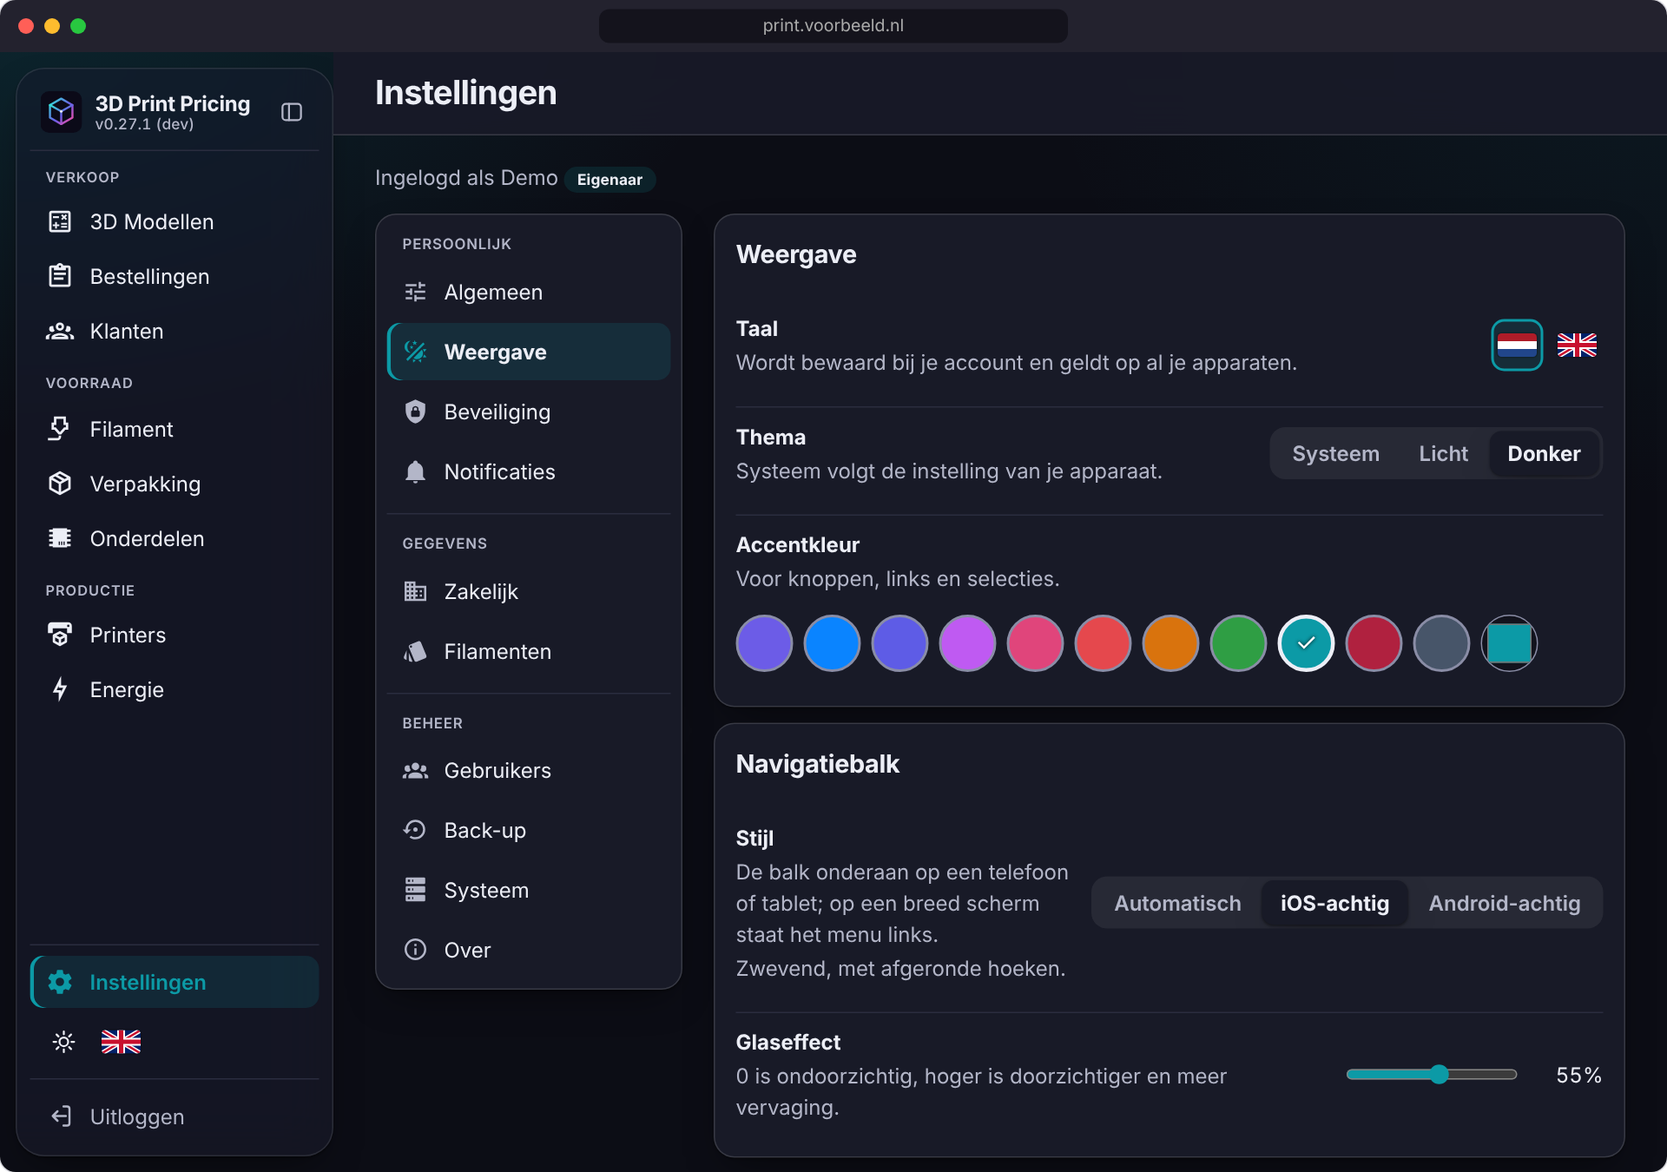
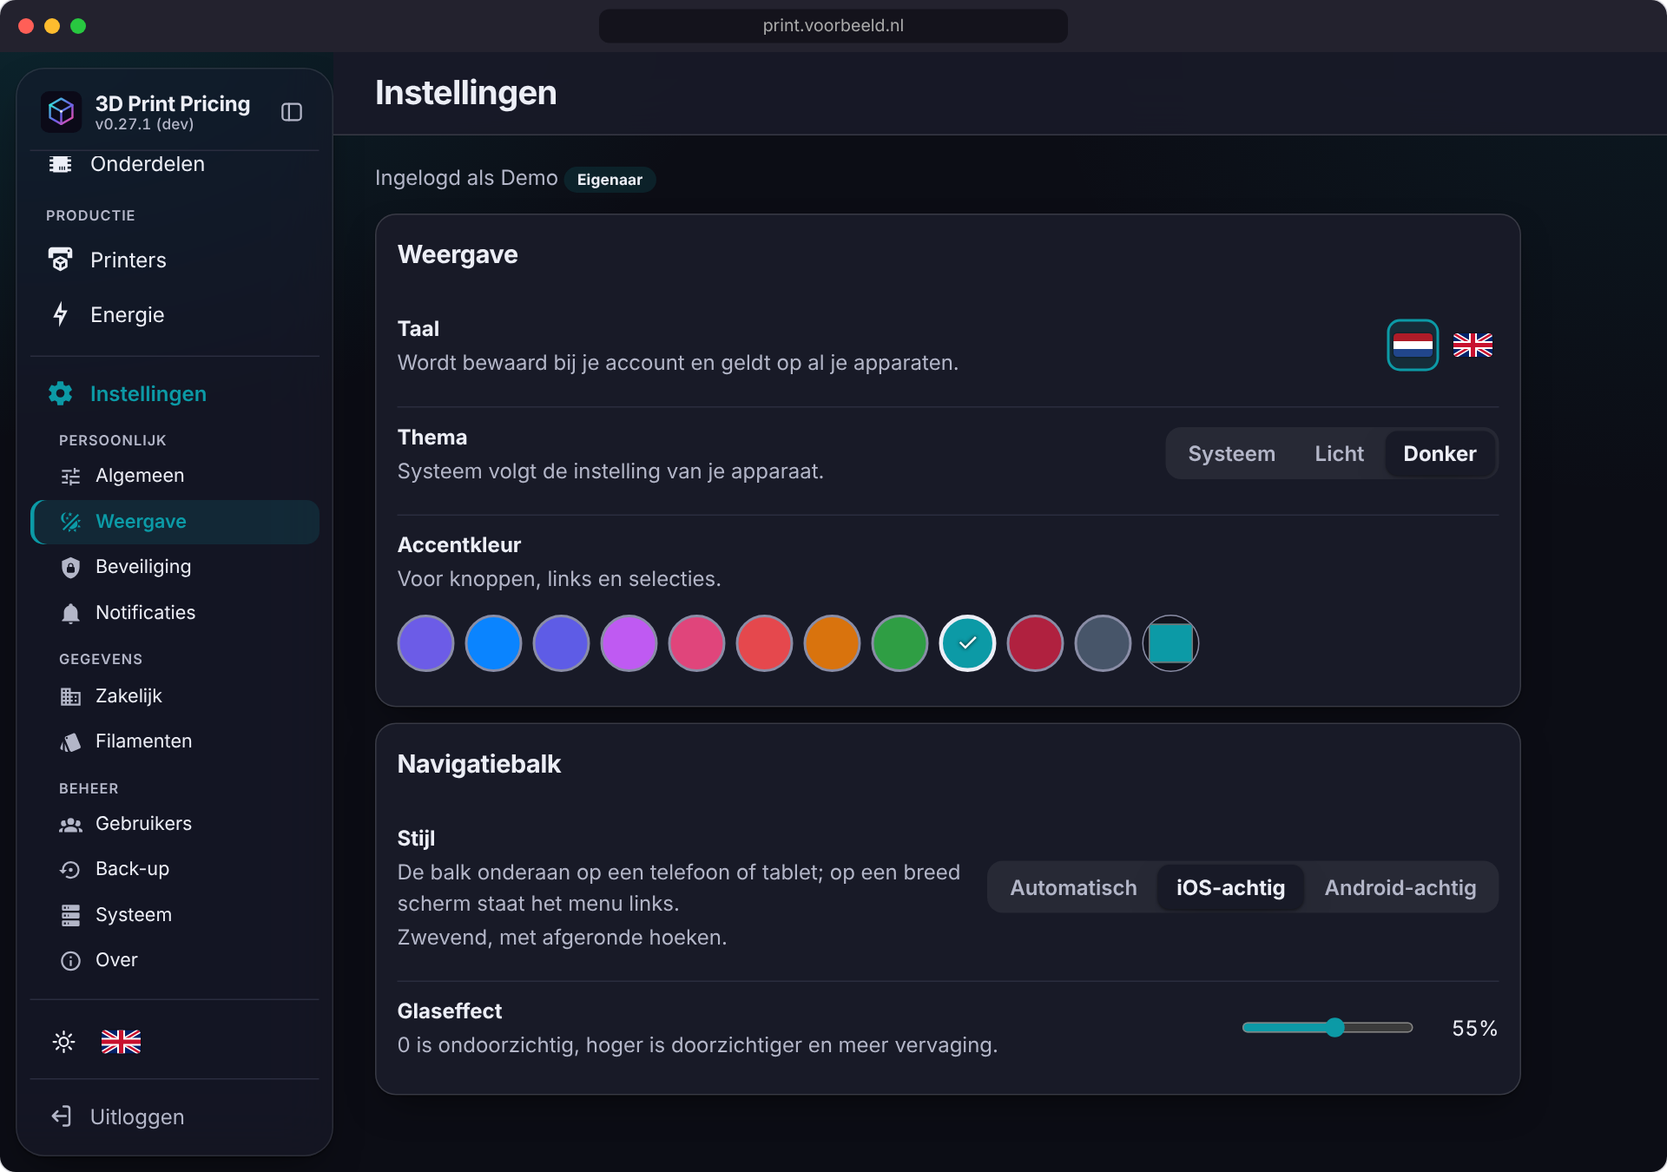
feat(menu): the parts of the settings stand under Settings in the menu
Settings had a menu of its own beside the page. Its parts now stand in
the menu on the left, under Settings, grouped as before (personal, data,
administration): they open on the settings pages, so there is one menu.
On those pages the menu starts at Settings, so all parts are in sight.

Where that menu is not there (a phone) or is folded away, the page still
shows the parts itself. Both draw the same list, `settingsMenu()`, and
switching Business on or off updates both.

The guide and AGENTS.md describe this and the picture of a packaging
item; the styles of that picture and the retaken screenshots are in this
commit too.

Claude-Session: https://claude.ai/code/session_01KSdu54AFun4xRkPWcygQm9

diff --git a/frontend/js/main.js b/frontend/js/main.js
@@ -4,7 +4,7 @@ import { customerEditorView, customerListView } from './customers.js';
 import { orderEditorView, orderListView } from './orders.js';
 import { projectEditorView, projectListView } from './projects.js';
 import { resourceView } from './resources.js';
-import { ACCENTS, settingsView } from './settings.js';
+import { ACCENTS, settingsMenu, settingsSection, settingsView } from './settings.js';
 import { initRelease, redrawRelease, releaseAvailable, stopRelease } from './release.js';
 import { initUpdates, setDirty } from './updates.js';
 import { maybeShowInstallBanner } from './install.js';
@@ -44,6 +44,7 @@ let prefs = {};
 let flags = { recovered: false };
 let appVersion = null;
 let updatesStarted = false;
+let redrawMenu = () => {};                 // draws the parts of the settings in the menu again (a part appeared or went: Business switched on or off)
 
 // --- theme & preferences ------------------------------------------------------
 
@@ -120,7 +121,8 @@ function pageContent({ page, id }) {
           h('h3', {}, navIcon(ic, false), t(label))))),
         h('div', { class: 'row' }, h('button', { class: 'btn', type: 'button', onclick: logout }, icon('logout'), h('span', {}, t('session.logout')))));
     case 'instellingen':
-      return settingsView({ get prefs() { return prefs; }, setPrefs, setLanguage: chooseLanguage, user: session.user, highlightPasskey: flags.recovered, get aiImages() { return session.aiImages; } }, id);
+      return settingsView({ get prefs() { return prefs; }, setPrefs, setLanguage: chooseLanguage, user: session.user, highlightPasskey: flags.recovered, get aiImages() { return session.aiImages; },
+        redrawMenu: () => redrawMenu() }, id);
     default: return h('p', {}, t('nav.not_found'));
   }
 }
@@ -130,11 +132,11 @@ async function logout() {
   start();
 }
 
-function navLink([page, labelKey, ic], active) {
+function navLink([page, labelKey, ic], active, current) {
   const label = t(labelKey);
   // A dot on the entries that lead to Settings while a newer release exists (release.js shows and hides it).
   const dot = page === 'instellingen' || page === 'meer' ? h('span', { class: 'nav-dot', 'aria-hidden': 'true', hidden: !releaseAvailable() }) : null;
-  return h('a', { href: `#/${page}`, 'aria-current': active ? 'page' : null, title: label },
+  return h('a', { href: `#/${page}`, 'aria-current': active ? (current || 'page') : null, title: label },
     h('span', { class: 'nav-icon' }, navIcon(ic, active), dot), h('span', { class: 'nav-label' }, label));
 }
 
@@ -150,8 +152,20 @@ function route() {
   setDirty(false);                       // a new screen starts clean; the editor raises it again on edits
   const r = currentRoute();
   const main = h('main', { id: 'main', tabindex: '-1' }, pageContent(r));
-  const entry = (page) => { const n = NAV.find((x) => x[0] === page); return navLink(n, n[0] === r.page); };
+  const entry = (page, current) => { const n = NAV.find((x) => x[0] === page); return navLink(n, n[0] === r.page, current); };
   const collapsed = !!prefs.sidebar_collapsed;
+  // Settings is one menu with the rest: on its pages its parts stand under it, grouped as they are on the page itself.
+  const inSettings = r.page === 'instellingen';
+  const who = { get prefs() { return prefs; }, user: session.user, get aiImages() { return session.aiImages; } };
+  const settingsParts = h('div', { class: 'nav-sub', hidden: !inSettings });
+  redrawMenu = () => {
+    const open = settingsSection(who, r.id);
+    settingsParts.replaceChildren(...settingsMenu(who).map(([title, items]) => h('div', { class: 'nav-sub-group', role: 'group', 'aria-label': t(title) },
+      h('span', { class: 'nav-group-title', 'aria-hidden': 'true' }, t(title)),
+      items.map(([key, label, name]) => h('a', { href: `#/instellingen/${key}`, 'aria-current': key === open ? 'page' : null, title: t(label) },
+        h('span', { class: 'nav-icon' }, icon(name)), h('span', { class: 'nav-label' }, t(label)))))));
+  };
+  if (inSettings) redrawMenu();
   const sidebar = h('nav', { class: 'sidebar glass', 'aria-label': t('nav.main') },
     h('div', { class: 'sidebar-brand' }, h('img', { src: '/icons/icon.svg', alt: '', width: 32, height: 32 }),
       h('span', { class: 'nav-label brand-text' }, h('span', { class: 'brand-name' }, '3D Print Pricing', betaBadge()),
@@ -160,9 +174,10 @@ function route() {
       h('button', { class: 'tool-btn sidebar-toggle', type: 'button', 'aria-expanded': String(!collapsed), title: collapsed ? t('nav.expand') : t('nav.collapse'),
         'aria-label': collapsed ? t('nav.expand') : t('nav.collapse'), onclick: () => { setPrefs({ sidebar_collapsed: !prefs.sidebar_collapsed }).then(route); } }, icon('sidebar'))),
     h('div', { class: 'sidebar-nav' }, NAV_GROUPS.map(([label, pages]) => h('div', { class: 'nav-group', role: 'group', 'aria-label': t(label) },
-      h('span', { class: 'nav-group-title', 'aria-hidden': 'true' }, t(label)), pages.map(entry)))),
+      h('span', { class: 'nav-group-title', 'aria-hidden': 'true' }, t(label)), pages.map((page) => entry(page)))),
+      // While its parts are listed, Settings itself is only where you are in the menu, not the page: the part is. Folded away, it is the page again.
+      h('div', { class: 'nav-group nav-settings' }, entry('instellingen', inSettings && !collapsed ? 'true' : undefined), settingsParts)),
     h('div', { class: 'sidebar-foot' },
-      entry('instellingen'),
       h('div', { class: 'sidebar-tools' }, themeToggle({ get prefs() { return prefs; }, setPrefs }, route), langSwitch(chooseLanguage)),
       h('button', { class: 'logout', type: 'button', title: t('session.logout'), onclick: logout }, icon('logout'), h('span', { class: 'nav-label' }, t('session.logout')))));
   // One primary navigator at a time: CSS shows the tab bar on compact widths, the sidebar otherwise.
@@ -171,6 +186,8 @@ function route() {
     ...COMPACT.map((n) => navLink(n, n[0] === r.page)), navLink(['meer', 'nav.more', 'dots-horizontal'], inOverflow));
   root.replaceChildren(h('div', { class: 'app' }, sidebar, main, tabbar));
   window.scrollTo(0, 0);
+  // The menu is long with the parts of the settings open: on those pages it starts at Settings, so all its parts are in sight without scrolling.
+  if (inSettings && !collapsed) { const list = sidebar.querySelector('.sidebar-nav'); list.scrollTop = settingsParts.parentElement.offsetTop - list.offsetTop; }
 }
 
 // --- boot ----------------------------------------------------------------------

diff --git a/frontend/js/settings.js b/frontend/js/settings.js
@@ -876,18 +876,30 @@ const SECTIONS = [['algemeen', 'settings.tab_general'], ['weergave', 'settings.t
   ['zakelijk', 'settings.tab_business'], ['filamenten', 'settings.tab_filaments'], ['notificaties', 'settings.tab_notifications'],
   ['gebruikers', 'settings.tab_users'], ['ai', 'settings.tab_ai'], ['backup', 'settings.tab_backup'], ['systeem', 'settings.tab_system'], ['over', 'settings.tab_about']];
 const ADMIN_SECTIONS = ['zakelijk', 'gebruikers', 'ai', 'backup', 'systeem', 'over'];
-// How the menu is grouped and which icon each part has. A part is only shown when `shown()` lets it through, a group without parts not at all.
+// How the menu is grouped and which icon each part has. A part is only shown when `settingsMenu()` lets it through, a group without parts not at all.
 const GROUPS = [['settings.group_personal', ['algemeen', 'weergave', 'beveiliging', 'notificaties']],
   ['settings.group_data', ['zakelijk', 'filamenten']], ['settings.group_admin', ['gebruikers', 'ai', 'backup', 'systeem', 'over']]];
 const SECTION_ICONS = { algemeen: 'tune', weergave: 'theme-light-dark', beveiliging: 'shield-lock', notificaties: 'bell', zakelijk: 'domain',
   filamenten: 'palette-swatch', gebruikers: 'account-group', ai: 'creation', backup: 'backup-restore', systeem: 'server', over: 'information-outline' };
 
+/** The parts of the settings this person sees, grouped as the menu shows them: [[group label key, [[route, label key, icon], ...]], ...]. There is one
+    list, for the menu on the left (where the parts stand under Settings) and for the menu of the page itself (a phone, or the menu folded away). */
+export function settingsMenu({ prefs, user, aiImages }) {
+  const admin = user.role === 'admin';
+  const labels = new Map(SECTIONS.filter(([key]) => (admin || !ADMIN_SECTIONS.includes(key)) && (key !== 'zakelijk' || !!prefs.business_mode)
+    && (key !== 'ai' || aiImages)));                                 // "AI-afbeeldingen" only when .env switches it on
+  return GROUPS.map(([title, keys]) => [title, keys.filter((key) => labels.has(key)).map((key) => [key, labels.get(key), SECTION_ICONS[key]])])
+    .filter(([, items]) => items.length);
+}
+
+/** The part of the settings an address opens: the one it names when this person has it, else the first. */
+export const settingsSection = (ctx, requested) => (settingsMenu(ctx).some(([, items]) => items.some(([key]) => key === requested)) ? requested : 'algemeen');
+
 export function settingsView(ctx, requested) {
   const { setPrefs, user, highlightPasskey } = ctx;
   const businessOn = () => !!ctx.prefs.business_mode;
   const admin = user.role === 'admin';
-  const shown = () => SECTIONS.filter(([key]) => (admin || !ADMIN_SECTIONS.includes(key)) && (key !== 'zakelijk' || businessOn()) && (key !== 'ai' || ctx.aiImages));   // "AI-afbeeldingen" only when .env switches it on
-  const section = shown().some(([key]) => key === requested) ? requested : 'algemeen';
+  const section = settingsSection(ctx, requested);
   // The address says what is shown: a part that is not there (Business while it is off) must not stay in the URL, or clicking its tab later would change nothing.
   if (requested && requested !== section) history.replaceState(null, '', `#/instellingen/${section}`);
   let vatTimer = null;
@@ -991,17 +1003,15 @@ export function settingsView(ctx, requested) {
     } catch (e) { toast(e.message, 'error'); }
   }
 
-  // A column of grouped parts beside the page on a wide screen, a row you can swipe on a phone (the css decides, the markup is the same).
+  // The parts of the settings stand under Settings in the menu on the left. Where that menu is not there (a phone) or is folded away, the page shows them itself:
+  // a row you can swipe on a phone, a column beside the page next to the folded menu (the css decides, the markup is the same).
   const subnav = h('nav', { class: 'settings-nav', 'aria-label': t('settings.sections') });
   const drawSubnav = () => {
-    const labels = new Map(shown());
-    subnav.replaceChildren(...GROUPS.map(([title, keys]) => {
-      const items = keys.filter((key) => labels.has(key));
-      return items.length ? h('div', { class: 'settings-group', role: 'group', 'aria-label': t(title) },
-        h('p', { class: 'settings-group-title', 'aria-hidden': 'true' }, t(title)),
-        ...items.map((key) => h('a', { href: `#/instellingen/${key}`, 'aria-current': key === section ? 'page' : null },
-          icon(SECTION_ICONS[key]), h('span', {}, t(labels.get(key)))))) : null;
-    }));
+    subnav.replaceChildren(...settingsMenu(ctx).map(([title, items]) => h('div', { class: 'settings-group', role: 'group', 'aria-label': t(title) },
+      h('p', { class: 'settings-group-title', 'aria-hidden': 'true' }, t(title)),
+      ...items.map(([key, label, name]) => h('a', { href: `#/instellingen/${key}`, 'aria-current': key === section ? 'page' : null },
+        icon(name), h('span', {}, t(label)))))));
+    ctx.redrawMenu?.();                                              // the same parts stand under Settings in the menu on the left
   };
   drawSubnav();
   requestAnimationFrame(() => subnav.querySelector('[aria-current]')?.scrollIntoView({ block: 'nearest', inline: 'center' }));   // on a phone the open part may be off screen

diff --git a/frontend/css/app.css b/frontend/css/app.css
@@ -961,3 +961,26 @@ a.cell-title:hover { color: var(--accent); text-decoration: underline; text-unde
 }
 @container (max-width: 519.98px) { .data-table { font-size: .875rem; } .data-table .main { min-width: 8.5rem; } .data-table th, .data-table td { padding: 8px; } }
 @container (max-width: 519.98px) { .th-sort .icon { display: none; } th[aria-sort] .th-sort .icon { display: block; } .data-table thead th { letter-spacing: .02em; } .data-table .main { min-width: 7rem; } }
+
+/* Settings is one menu with the rest: on its pages its parts stand under it in the menu on the left, grouped as on the page. The page shows its own
+   menu only where that one is not there (a phone) or is folded away. */
+@media (min-width: 860px) {
+  .nav-settings { margin-top: auto; padding-top: 8px; border-top: 1px solid var(--lijn); }
+  .sidebar a[aria-current="true"] { background: none; box-shadow: none; color: var(--accent); font-weight: 600; }   /* where you are; the part under it is the page */
+  .nav-sub { display: flex; flex-direction: column; gap: 4px; padding-bottom: 4px; }
+  .nav-sub-group { display: flex; flex-direction: column; gap: 1px; }
+  .nav-sub .nav-group-title { margin: 6px 12px 2px 22px; }
+  .sidebar .nav-sub a { min-height: 34px; padding: 4px 12px 4px 22px; gap: 10px; font-size: .9rem; }
+  .nav-sub .icon { width: 18px; height: 18px; color: var(--text-muted); }
+  .nav-sub a[aria-current="page"] .icon { color: var(--accent); }
+  .sidebar-collapsed .nav-sub { display: none; }
+  html:not(.sidebar-collapsed) .settings-nav { display: none; }
+  html:not(.sidebar-collapsed) .settings-layout { grid-template-columns: minmax(0, 1fr); }
+  .settings-content { max-width: 880px; }
+}
+
+/* The picture of an item (packaging): small in a tile and in the list, larger in its form. */
+.item-thumb { flex: none; width: 44px; height: 44px; border: 1px solid var(--lijn-strong); border-radius: var(--radius-sm); background: var(--surface-solid); object-fit: cover; }
+.item-thumb.placeholder { display: inline-grid; place-items: center; background: var(--track); color: var(--text-muted); }
+.data-table .item-thumb { width: 36px; height: 36px; }
+.image-preview { max-width: min(100%, 200px); max-height: 200px; border: 1px solid var(--lijn-strong); border-radius: var(--radius-sm); object-fit: contain; }

diff --git a/docs/handleiding.md b/docs/handleiding.md
@@ -46,7 +46,7 @@ te houden waar die prijzen op gebaseerd zijn. Inloggen gaat met **passkeys** of,
   **voorraad per soort**: de rollen die je nog hebt met hun gewicht, het totaal per soort en per materiaal (een soort is
   één barcode, of merk + materiaal + kleur). Merk (bijvoorbeeld *Bambu Lab*) en **type** (*Matte*, *Basic*, *Silk*) zijn aparte velden; een bestaande rol houdt wat in het merkveld stond en het type is leeg tot je het invult. Pas je bij een rol met barcode merk, type, materiaal, kleur, gewicht, diameter of temperaturen aan, dan vraagt de app bij het opslaan of de andere rollen met dezelfde barcode ook bijgewerkt moeten worden (alleen wat je veranderde; prijs, wat er nog over is en notities zijn per rol en blijven staan). Bovenaan *Voorraad* en *Rollen* staat een **zoekveld** dat filtert terwijl je typt: op naam (merk, type, kleur), barcode en materiaal, zonder op hoofdletters of accenten te letten; met meer woorden (*bambu zwart*) moet elk woord passen. Met de scanknop ernaast zoek je op een gescande barcode, en wat je typte blijft staan als je tussen *Voorraad* en *Rollen* wisselt. Daarnaast kun je de lijst en de voorraad filteren op **soort** (materiaal), **merk** en **type**; elke keuzelijst past zich aan de vorige keuzes aan. **Dupliceren** (op een rol onder *Rollen*) opent het rolformulier, ingevuld met die rol, met bovenaan *Aantal rollen*: zo voeg je een of meer rollen van hetzelfde filament toe. De nieuwe rollen beginnen vol en zijn niet gearchiveerd; pas aan wat anders is (de prijs, bijvoorbeeld) en ze komen er in één keer bij (alles of niets, hooguit 200). Een rol uit Spoolman dupliceer je in Spoolman. Verbruik van een berekening kun je met één klik van de voorraad afboeken.
   Het menu *Filament* heeft twee onderdelen: **Voorraad** (de soorten, met een spoel-icoon in de kleur van de rol en bovenaan het totaal per materiaal) en **Rollen** (elke rol afzonderlijk). Beide werken als elk ander overzicht (zie *Overzichten*): tegels of lijst, zoeken, filteren op soort, merk en type, en sorteren. Bij *Rollen* zet de schakelaar *Groepeer per soort* de rollen van één soort bij elkaar (drie rollen Bambu Lab Basic Rood onder één kop, met de barcode erbij, zodat twee tinten rood uit elkaar blijven). Binnen een groep staan de rollen in de gekozen volgorde en de groepen staan op volgorde van hun eerste rol: gesorteerd op *Resterend* staat de soort met de leegste rol bovenaan, met die rol als eerste. Zet je de schakelaar uit, dan is het één lijst op die volgorde, en bij gelijk gewicht op naam. De kleur kies je per rol (*Kleur van de rol*); kies je niets, dan wordt hij uit de naam geraden (*zwart*, *Red*, …). Het icoon is in de stijl van de Material Design-iconen getekend, want die hebben geen filamentspoel.
-- **Verpakking** — je soorten dozen en ander verpakkingsmateriaal met prijs per stuk. Verpakking hoort bij de **bestelling**, niet bij het model: met
+- **Verpakking** — je soorten dozen en ander verpakkingsmateriaal met prijs per stuk, elk met optioneel een **afbeelding** (een foto van de doos of zak, of het logo): kies in het formulier een JPEG, PNG of WebP (op een telefoon kun je meteen een foto maken); hij staat daarna klein in de tegel en in de lijst, en met *Afbeelding weghalen* haal je hem er weer af. De app bewaart een verkleinde kopie (hooguit 800 pixels breed of hoog) zonder de gegevens die een telefoon in een foto zet, in de database; hij zit in de back-up en verdwijnt met de verpakking. Verpakking hoort bij de **bestelling**, niet bij het model: met
   *Verpakking toevoegen* in de bestelling kies je er een uit de lijst (zie *Verpakking op een bestelling*). Een berekening die al verpakking bevatte, houdt die
   (en de kosten ervan) tot je de regel verwijdert; nieuwe verpakking kun je er niet meer aan toevoegen.
 - **Onderdelen** — twee lijsten onder één menu. **Onderdelen** zijn extra onderdelen zoals kabeltjes, connectoren en chips;
@@ -499,7 +499,7 @@ back-upcodes die je nog niet bewaard hebt), dan vraagt de app eerst om bevestigi
 
 ## Instellingen
 
-*Instellingen* heeft een submenu bovenaan; elk onderdeel heeft een eigen adres (`#/instellingen/<onderdeel>`):
+De onderdelen van *Instellingen* staan in het **menu links, onder *Instellingen***, gegroepeerd (*Persoonlijk*, *Gegevens*, *Beheer*): ze klappen uit zodra je in de instellingen bent, zodat er één menu is. Is dat menu er niet (een telefoon) of is het ingeklapt, dan toont de pagina de onderdelen zelf: op een telefoon als een rij om te vegen, naast het ingeklapte menu als een kolom. Elk onderdeel heeft een eigen adres (`#/instellingen/<onderdeel>`):
 
 | Onderdeel | Bevat |
 |---|---|

diff --git a/AGENTS.md b/AGENTS.md
@@ -114,6 +114,8 @@ PWA), `deploy/` (container entrypoint), `scripts/` (repo tooling), `homeassistan
   (the CSP also forbids inline script and style).
 - **Every overview is `listView` (`frontend/js/listview.js`)**: the toolbar (search while typing, filters, order, grouping, tiles or a list), the table with headings that sort and the empty states are decided there, so the pages cannot drift apart. A page only gives its rows, `sorts`, `columns` and `tile`; a new overview does not build its own search field, sort buttons or table. The view, order and grouping are remembered per overview in the browser (`pp-list-<id>`), not in the account. Columns marked `wide` and the layout of the lines in an editor follow the room they have (container queries), not the width of the screen, because the menu and the cost price take their share.
 - **An editor's actions are in its title bar** (`backLink` and `headAction` in `ui.js`): the way back, then one `.btn-group` with what else can be done, then *Save* as the primary button. Controls have two sizes from tokens (`--control`, `--control-sm`: 44 px on a touch screen, more compact where a mouse points); use `.btn.tool` for a button in a toolbar, row or line and `rowActions` for the icons of a row, never a fixed height.
+- **The parts of the settings are one list, `settingsMenu()` in `settings.js`**: the menu on the left draws them under *Settings* (`main.js`, only on the settings pages) and the page draws them itself where that menu is not there (a phone) or is folded away; the css decides which is shown. A new part is an entry in `SECTIONS`, `GROUPS` and `SECTION_ICONS` and appears in both.
+- A packaging item can have a picture (`backend/app/packaging_images.py`, migration 0005, `/api/packaging-images`): an untrusted upload like the product photos, so it goes through `ai_images._clean` (decoded, turned upright, scaled to `MAX_EDGE`, written again as a JPEG: no metadata, no second payload), is kept in the database and never under `UPLOAD_DIR`, goes with its item (`ON DELETE CASCADE`) and is in the backup, read again on restore. The list asks once which items have one (`GET /api/packaging-images`, id and version) and the address of a picture carries its version.
 - A 3D model has `links` (migration 0004): a list of `kind`, `label` and `url`, validated by `api._project_links` (`LINK_KINDS`, at most `MAX_LINKS`, http(s) only). The kind is kept so that a later connection to a sales channel can find its own listing; a new channel is a line in `LINK_KINDS`, in `LINK_KINDS`/`HOSTS` of `projects.js` and a `link.*` text. `source_url` stays the address of the model itself (the first link of kind `model`), for a backup read by an older release, and a body with only `source_url` still works.
 
 ## 2. Versioning discipline
